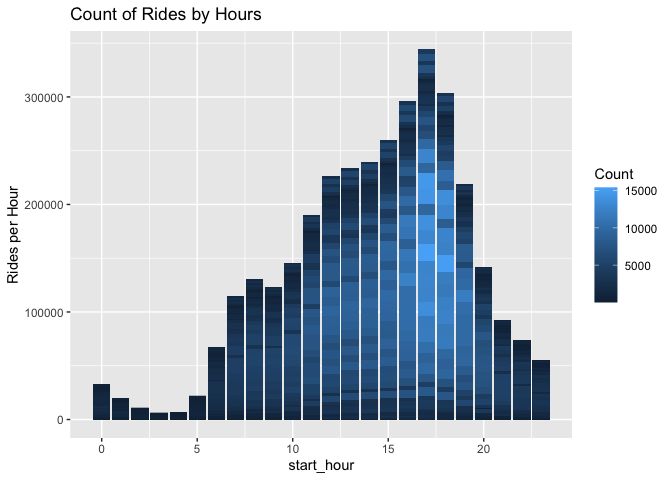
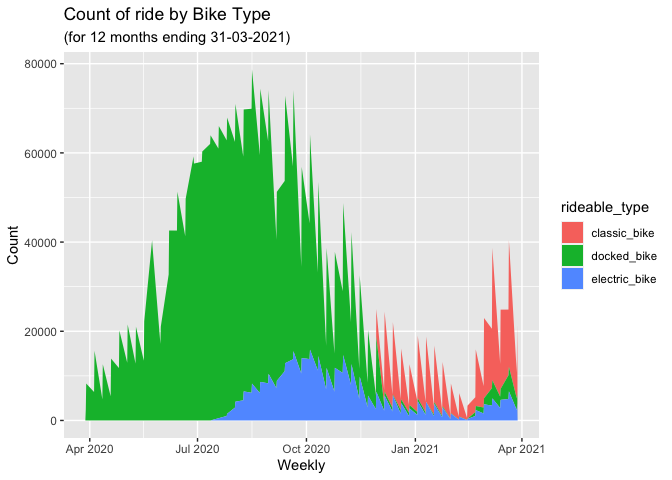
final report - but need to comment out some code chunks later

diff --git a/Bike-Share-Exploration.md b/Bike-Share-Exploration.md
@@ -64,87 +64,63 @@ bike_rides <- janitor::remove_empty(bike_rides,which = c("cols"))
 bike_rides <- janitor::remove_empty(bike_rides, which = c("rows"))
 
 ## remove na values
+bike_rides <- replace(bike_rides, bike_rides=='', NA)
 sum(is.na(bike_rides))
 ```
 
-    ## [1] 191163
+    ## [1] 541397
 
 ``` r
 bike_rides <- na.omit(bike_rides)
 # above ok - do not delete
 ```
 
-``` r
+### comment out
+
 ## Filtering starting stations with blank names
-bike_rides_start_blank <- bike_rides %>% filter (start_station_name =="") %>%
-  group_by(ride_id, rideable_type, started_at, ended_at, start_station_name,
-           start_station_id, end_station_name, end_station_id, start_lat,
-           start_lng, end_lng, member_casual) %>%
-  summarise(n=n())
-```
 
-    ## `summarise()` has grouped output by 'ride_id', 'rideable_type', 'started_at',
-    ## 'ended_at', 'start_station_name', 'start_station_id', 'end_station_name',
-    ## 'end_station_id', 'start_lat', 'start_lng', 'end_lng'. You can override using
-    ## the `.groups` argument.
+bike_rides_start_blank \<- bike_rides %\>% filter (start_station_name
+==““) %\>% group_by(ride_id, rideable_type, started_at, ended_at,
+start_station_name, start_station_id, end_station_name, end_station_id,
+start_lat, start_lng, end_lng, member_casual) %\>% summarise(n=n())
 
-``` r
 ## Filtering starting stations without blank names
-bike_rides_start_non_blank <- bike_rides %>% filter (start_station_name !="") %>%
-  group_by(ride_id, rideable_type, started_at, ended_at, start_station_name,
-           start_station_id, end_station_name, end_station_id, start_lat,
-           start_lng, end_lng, member_casual) %>%
-  summarise(n=n())
-```
 
-    ## `summarise()` has grouped output by 'ride_id', 'rideable_type', 'started_at',
-    ## 'ended_at', 'start_station_name', 'start_station_id', 'end_station_name',
-    ## 'end_station_id', 'start_lat', 'start_lng', 'end_lng'. You can override using
-    ## the `.groups` argument.
+bike_rides_start_non_blank \<- bike_rides %\>% filter
+(start_station_name !=““) %\>% group_by(ride_id, rideable_type,
+started_at, ended_at, start_station_name, start_station_id,
+end_station_name, end_station_id, start_lat, start_lng, end_lng,
+member_casual) %\>% summarise(n=n())
 
-``` r
-## #Filtering ending stations with blank names
-bike_rides_end_blank <- bike_rides %>% filter (end_station_name =="") %>%
-  group_by(ride_id, rideable_type, started_at, ended_at, start_station_name,
-           start_station_id, end_station_name, end_station_id, start_lat,
-           start_lng, end_lng, member_casual) %>%
-  summarise(n=n())
-```
+## \#Filtering ending stations with blank names
 
-    ## `summarise()` has grouped output by 'ride_id', 'rideable_type', 'started_at',
-    ## 'ended_at', 'start_station_name', 'start_station_id', 'end_station_name',
-    ## 'end_station_id', 'start_lat', 'start_lng', 'end_lng'. You can override using
-    ## the `.groups` argument.
+bike_rides_end_blank \<- bike_rides %\>% filter (end_station_name ==““)
+%\>% group_by(ride_id, rideable_type, started_at, ended_at,
+start_station_name, start_station_id, end_station_name, end_station_id,
+start_lat, start_lng, end_lng, member_casual) %\>% summarise(n=n())
 
-``` r
-## #Filtering ending stations without blank names
-bike_rides_end_non_blank <- bike_rides %>% filter (end_station_name !="") %>%
-  group_by(ride_id, rideable_type, started_at, ended_at, start_station_name,
-           start_station_id, end_station_name, end_station_id, start_lat,
-           start_lng, end_lng, member_casual) %>%
-  summarise(n=n())
-```
+## \#Filtering ending stations without blank names
 
-    ## `summarise()` has grouped output by 'ride_id', 'rideable_type', 'started_at',
-    ## 'ended_at', 'start_station_name', 'start_station_id', 'end_station_name',
-    ## 'end_station_id', 'start_lat', 'start_lng', 'end_lng'. You can override using
-    ## the `.groups` argument.
+bike_rides_end_non_blank \<- bike_rides %\>% filter (end_station_name
+!=““) %\>% group_by(ride_id, rideable_type, started_at, ended_at,
+start_station_name, start_station_id, end_station_name, end_station_id,
+start_lat, start_lng, end_lng, member_casual) %\>% summarise(n=n())
 
-``` r
-###below chunk necessary?
-#merging both start station names
-start_data <- data.frame(bike_rides_start_non_blank)
-start_data <- rbind(start_data,bike_rides_start_blank)
+\###below chunk necessary? \#merging both start station names start_data
+\<- data.frame(bike_rides_start_non_blank) start_data \<-
+rbind(start_data,bike_rides_start_blank)
 
-#merging both end station names
-end_data <- data.frame(bike_rides_end_non_blank)
-end_data <- rbind(end_data,bike_rides_end_blank)
-```
+\#merging both end station names end_data \<-
+data.frame(bike_rides_end_non_blank) end_data \<-
+rbind(end_data,bike_rides_end_blank)
 
-``` r
-#Merging start and end dfs
-bike_rides2 <- merge(bike_rides_start_non_blank, bike_rides_end_non_blank, by = "ride_id")
-```
+### comment out
+
+### comment out
+
+\#Merging start and end dfs bike_rides2 \<-
+merge(bike_rides_start_non_blank, bike_rides_end_non_blank, by =
+“ride_id”) \### comment out
 
 ``` r
 ##
@@ -219,7 +195,7 @@ summary(bikesrides2$Count)
 ```
 
     ##    Min. 1st Qu.  Median    Mean 3rd Qu.    Max. 
-    ##     2.0   414.5  1558.0  2647.6  3731.5 15422.0
+    ##       2     377    1430    2600    3676   15422
 
 - Count of rides by Hour
 
@@ -230,11 +206,11 @@ xtabs(bikesrides2$Count~bikesrides2$start_hour)
 
     ## bikesrides2$start_hour
     ##      0      1      2      3      4      5      6      7      8      9     10 
-    ##  32569  19577  10656   5982   6542  21910  67454 114601 130470 123383 145575 
+    ##  31812  19113  10361   5790   6344  21432  66371 112645 128192 121084 142786 
     ##     11     12     13     14     15     16     17     18     19     20     21 
-    ## 189782 226048 233639 239821 259996 295910 344191 303546 219254 142113  92542 
+    ## 186117 221751 229084 235056 255141 290844 338643 299067 215958 139819  90917 
     ##     22     23 
-    ##  73776  55177
+    ##  72255  54109
 
 ``` r
 bikesrides2$Monthly <- lubridate::month(bikesrides2$Weekly)
@@ -246,7 +222,7 @@ bikesrides2 %>% ggplot() + geom_col(aes(x=Weekly,y=Count,fill=Count)) +
        y = "Average rides per day")
 ```
 
-![](Bike-Share-Exploration_files/figure-gfm/unnamed-chunk-11-1.png)<!-- -->
+![](Bike-Share-Exploration_files/figure-gfm/unnamed-chunk-9-1.png)<!-- -->
 
 ``` r
 options(scipen = 999)
@@ -256,7 +232,7 @@ bikesrides2 %>% ggplot() + geom_col(aes(x=start_hour,y=Count, fill=Count)) +
        y = "Rides per Hour")
 ```
 
-![](Bike-Share-Exploration_files/figure-gfm/unnamed-chunk-12-1.png)<!-- -->
+![](Bike-Share-Exploration_files/figure-gfm/unnamed-chunk-10-1.png)<!-- -->
 
 ``` r
 ### Create summary bikestype data frame
@@ -283,7 +259,7 @@ ggplot(bikestype) +
   labs(title = "Count of ride by Bike Type",subtitle = "(for 12 months ending 31-03-2021)")
 ```
 
-![](Bike-Share-Exploration_files/figure-gfm/unnamed-chunk-14-1.png)<!-- -->
+![](Bike-Share-Exploration_files/figure-gfm/unnamed-chunk-12-1.png)<!-- -->
 
 - Total Ride Minutes by week
 
@@ -294,7 +270,7 @@ ggplot(bikestype) +
   labs(title = "Total Ride Minutes by Rider Type")
 ```
 
-![](Bike-Share-Exploration_files/figure-gfm/unnamed-chunk-15-1.png)<!-- -->
+![](Bike-Share-Exploration_files/figure-gfm/unnamed-chunk-13-1.png)<!-- -->
 
 ``` r
 bike_rides %>%
@@ -308,7 +284,7 @@ bike_rides %>%
 
     ## Selecting by n
 
-![](Bike-Share-Exploration_files/figure-gfm/unnamed-chunk-16-1.png)<!-- -->
+![](Bike-Share-Exploration_files/figure-gfm/unnamed-chunk-14-1.png)<!-- -->
 
 ``` r
 # Top 20 start stations for casual riders
@@ -323,26 +299,26 @@ bike_rides %>%
     ## # A tibble: 20 × 3
     ##    start_station_name           member_casual number_of_rides
     ##    <chr>                        <chr>                   <int>
-    ##  1 Streeter Dr & Grand Ave      casual                  26074
-    ##  2 Lake Shore Dr & Monroe St    casual                  20548
-    ##  3 Millennium Park              casual                  19325
-    ##  4 Theater on the Lake          casual                  14964
-    ##  5 Indiana Ave & Roosevelt Rd   casual                  13573
-    ##  6 Michigan Ave & Oak St        casual                  13569
-    ##  7 Lake Shore Dr & North Blvd   casual                  13268
-    ##  8 Clark St & Elm St            casual                  11908
-    ##  9 Michigan Ave & Lake St       casual                  11650
-    ## 10 Michigan Ave & Washington St casual                  10626
-    ## 11 Clark St & Lincoln Ave       casual                  10122
-    ## 12 Buckingham Fountain          casual                   9988
-    ## 13 Wells St & Concord Ln        casual                   9953
-    ## 14 Clark St & Armitage Ave      casual                   9806
-    ## 15 Shedd Aquarium               casual                   9757
-    ## 16 Wabash Ave & Grand Ave       casual                   9693
-    ## 17 Michigan Ave & 8th St        casual                   9680
-    ## 18 Columbus Dr & Randolph St    casual                   9377
-    ## 19 Wells St & Elm St            casual                   9161
-    ## 20 Fairbanks Ct & Grand Ave     casual                   8984
+    ##  1 Streeter Dr & Grand Ave      casual                  26049
+    ##  2 Lake Shore Dr & Monroe St    casual                  20524
+    ##  3 Millennium Park              casual                  19283
+    ##  4 Theater on the Lake          casual                  14939
+    ##  5 Michigan Ave & Oak St        casual                  13539
+    ##  6 Indiana Ave & Roosevelt Rd   casual                  13522
+    ##  7 Lake Shore Dr & North Blvd   casual                  13248
+    ##  8 Clark St & Elm St            casual                  11862
+    ##  9 Michigan Ave & Lake St       casual                  11622
+    ## 10 Michigan Ave & Washington St casual                  10595
+    ## 11 Clark St & Lincoln Ave       casual                  10088
+    ## 12 Buckingham Fountain          casual                   9980
+    ## 13 Wells St & Concord Ln        casual                   9919
+    ## 14 Clark St & Armitage Ave      casual                   9769
+    ## 15 Shedd Aquarium               casual                   9748
+    ## 16 Wabash Ave & Grand Ave       casual                   9668
+    ## 17 Michigan Ave & 8th St        casual                   9649
+    ## 18 Columbus Dr & Randolph St    casual                   9350
+    ## 19 Wells St & Elm St            casual                   9110
+    ## 20 Fairbanks Ct & Grand Ave     casual                   8949
 
 KEY FINDINGS
 
